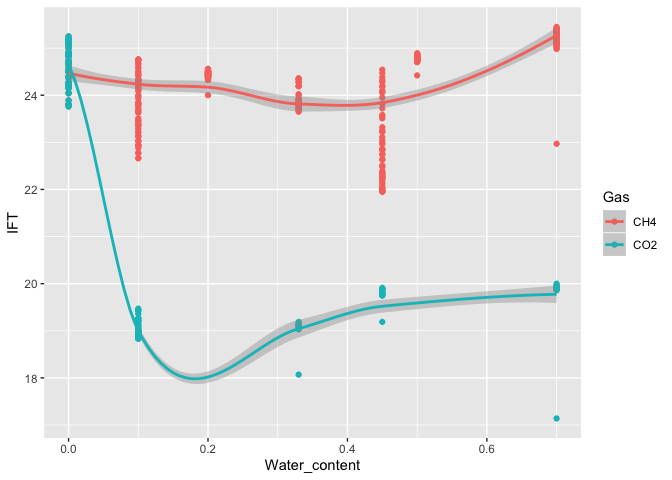
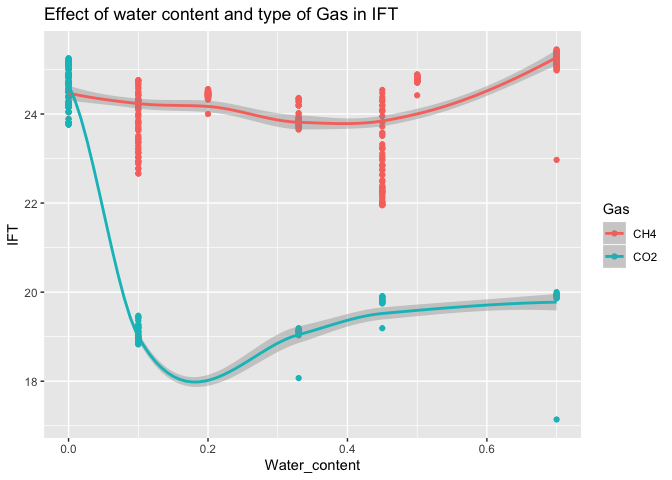
updating rmd

diff --git a/modeling_ift_r.md b/modeling_ift_r.md
@@ -2,6 +2,7 @@ Modeling IFT and Voulme Expansion
 ================
 
 ``` r
+# let's us read the data set
 ift_data <- read_excel(path = "data/ift_data.xlsx")
 ift_data
 ```
@@ -22,19 +23,36 @@ ift_data
     ## # … with 551 more rows
 
 ``` r
+# visualizing the IFT
 ggplot(ift_data, aes(Water_content, IFT,color = Gas) ) +
   geom_point() +
+    ggtitle("Effect of water content and type of Gas in IFT")+
+
   stat_smooth()
 ```
 
 ![](modeling_ift_r_files/figure-gfm/unnamed-chunk-1-1.png)<!-- -->
 
 ``` r
+# visualizing the volume expansion
+ggplot(ift_data, aes(Water_content, volume_ratio
+                     ,color = Gas),
+       ) +
+  ggtitle("Effect of water content and type of Gas in Volume Ratio")+
+  geom_point() +
+  stat_smooth()
+```
+
+![](modeling_ift_r_files/figure-gfm/unnamed-chunk-2-1.png)<!-- -->
+
+``` r
+# let's build a linear model to predict the IFT
 model_ift <- lm(scale(IFT) ~ scale(Water_content)*scale(time_minutes), data = ift_data)
 model_vol <- lm(volume_ratio ~ Water_content*time_minutes, data = ift_data)
 ```
 
 ``` r
+# IFT model
 tidy(model_ift)
 ```
 
@@ -47,6 +65,7 @@ tidy(model_ift)
     ## 4 scale(Water_content):scale(time_min…   0.248     0.0406     6.11       1.85e-9
 
 ``` r
+# Volume Expansion model
 tidy(model_vol)
 ```
 
@@ -57,18 +76,3 @@ tidy(model_vol)
     ## 2 Water_content              -0.0591    0.00952        -6.21 1.04e- 9
     ## 3 time_minutes               -0.0000134 0.00000711     -1.88 6.04e- 2
     ## 4 Water_content:time_minutes -0.000159  0.0000189      -8.42 3.15e-16
-
-``` r
-ift_data$pred_add = predict(model_ift)
-
-
-ggplot(ift_data, aes(x = Water_content, y = IFT, color = Gas)) +
-     geom_point() +
-  labs(title = 'Effect of water content and type of Gas in IFT',
-       x = "Water Content",
-       y = "IFT") + 
-  theme(plot.title = element_text(face = "bold", size = 12, hjust = 0.5),
-        axis.title = element_text(face = "bold", size = 12))
-```
-
-![](modeling_ift_r_files/figure-gfm/unnamed-chunk-5-1.png)<!-- -->
